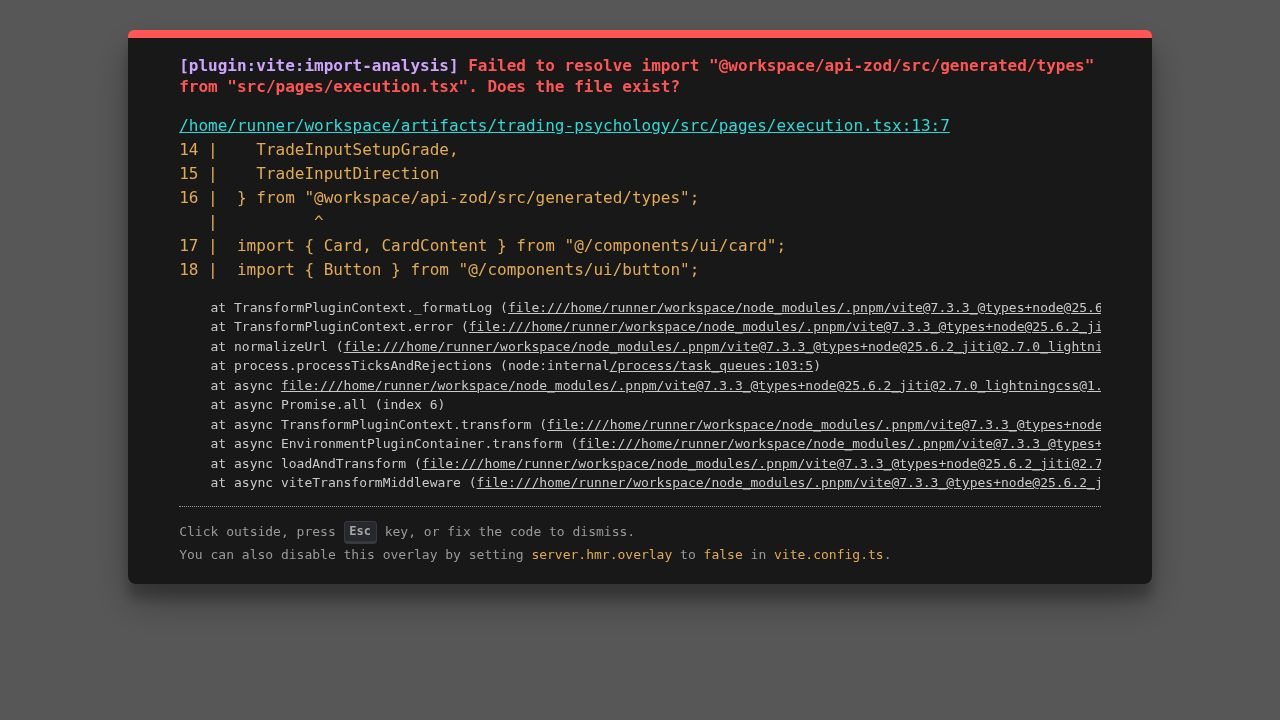
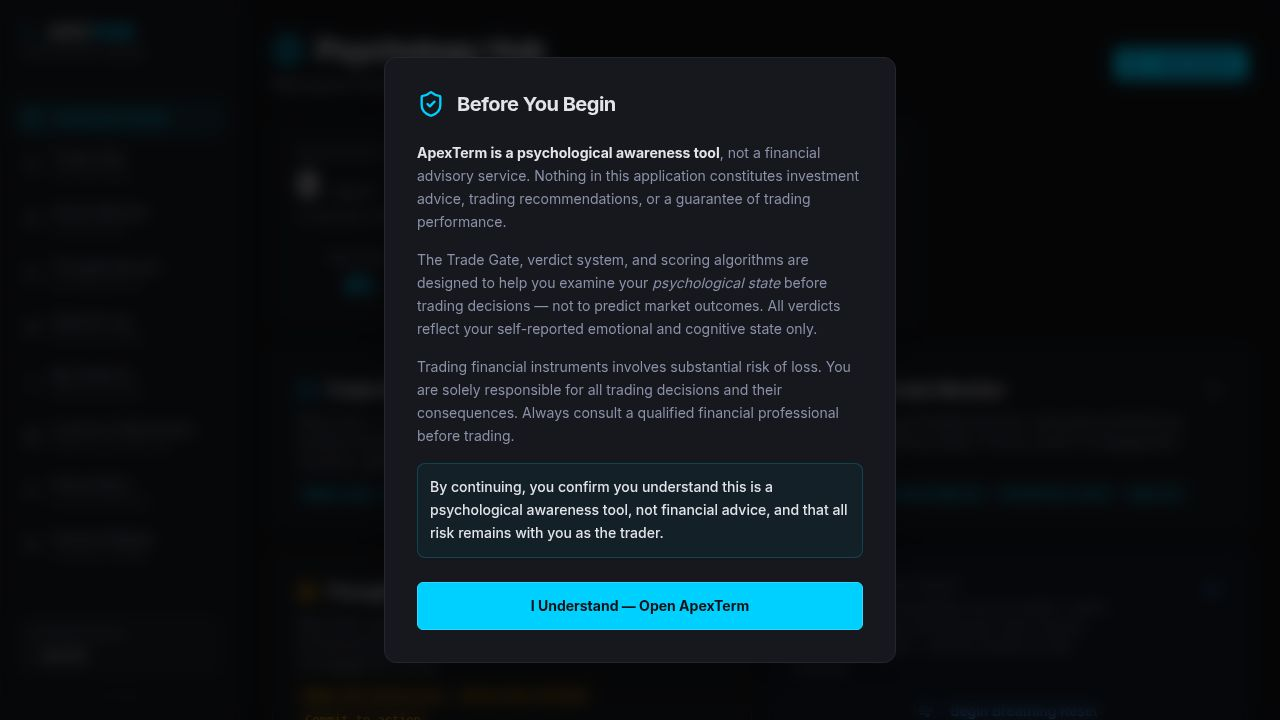
Fix Trading Psychology System artifact to run successfully
Create a nested vite.config.ts with absolute paths to resolve the CWD issue in artifact workflows.

Replit-Commit-Author: Agent
Replit-Commit-Session-Id: dadcf8ae-5f7b-4ddf-848b-962dcee2b596
Replit-Commit-Checkpoint-Type: full_checkpoint
Replit-Commit-Event-Id: 135d0a79-114b-4c7f-ba22-f3d396dec3fd
Replit-Commit-Screenshot-Url: https://storage.googleapis.com/screenshot-production-us-central1/09e3571f-7bbf-4230-93f7-7f4e97a95164/dadcf8ae-5f7b-4ddf-848b-962dcee2b596/y1lhYTU
Replit-Helium-Checkpoint-Created: true

diff --git a/artifacts/trading-psychology/artifacts/trading-psychology/vite.config.ts b/artifacts/trading-psychology/artifacts/trading-psychology/vite.config.ts
@@ -1,0 +1,49 @@
+import { defineConfig } from "vite";
+import react from "@vitejs/plugin-react";
+import tailwindcss from "@tailwindcss/vite";
+import path from "path";
+
+const REAL_ROOT = "/home/runner/workspace/artifacts/trading-psychology";
+
+const rawPort = process.env.PORT || "21714";
+const port = Number(rawPort);
+const basePath = process.env.BASE_PATH || "/";
+
+export default defineConfig({
+  base: basePath,
+  plugins: [react(), tailwindcss()],
+  resolve: {
+    alias: {
+      "@": path.resolve(REAL_ROOT, "src"),
+      "@assets": path.resolve(REAL_ROOT, "../../attached_assets"),
+      "@workspace/api-zod": path.resolve(REAL_ROOT, "../../lib/api-zod/src/index.ts"),
+      "@workspace/api-client-react": path.resolve(REAL_ROOT, "../../lib/api-client-react/src/index.ts"),
+    },
+    dedupe: ["react", "react-dom"],
+  },
+  root: REAL_ROOT,
+  build: {
+    outDir: path.resolve(REAL_ROOT, "dist/public"),
+    emptyOutDir: true,
+  },
+  server: {
+    port,
+    strictPort: true,
+    host: "0.0.0.0",
+    allowedHosts: true,
+    fs: {
+      strict: false,
+    },
+    proxy: {
+      "/api": {
+        target: "http://localhost:8080",
+        changeOrigin: true,
+      },
+    },
+  },
+  preview: {
+    port,
+    host: "0.0.0.0",
+    allowedHosts: true,
+  },
+});

diff --git a/.agents/memory/artifact-workflow-cwd.md b/.agents/memory/artifact-workflow-cwd.md
@@ -1,0 +1,16 @@
+---
+name: Artifact auto-workflow CWD quirk
+description: Replit auto-configured artifact workflows run from INSIDE the artifact's directory, not the workspace root.
+---
+
+## Rule
+
+Auto-configured artifact workflows (e.g. `artifacts/trading-psychology: web`) run their shell command from **inside** the artifact's own directory, not from `/home/runner/workspace`.
+
+**Why:** Replit's artifact system sets the CWD to the artifact's directory before running the command. This means commands like `cd artifacts/trading-psychology` fail with "No such file or directory" because the shell is already inside that directory.
+
+**How to apply:**
+- These workflows are locked — cannot be overridden via `configureWorkflow` (error: "managed by an artifact")
+- To fix a broken locked-command like `cd artifacts/trading-psychology && PORT=X npx vite --config vite.config.ts`, create a real nested directory `artifacts/[app]/artifacts/[app]/` with a `vite.config.ts` that uses absolute paths (`/home/runner/workspace/artifacts/[app]`) for `root`, aliases, and `build.outDir`.
+- The nested config causes the `cd` to succeed, then Vite is pointed back at the real source with `fs.strict: false`.
+- Do NOT use symlinks — they create circular resolution loops.

diff --git a/.agents/memory/MEMORY.md b/.agents/memory/MEMORY.md
@@ -1,2 +1,3 @@
 - [Rande Howell framework integration](rande-howell-framework.md) — archetypes/voices/alibi system, app structure, key patterns for future additions
 - [Setup Plan pre-commitment system](setup-plan-precommitment.md) — plan CRUD, gate PLAN_SELECT phase, server-side enforcement, chase detection, analytics
+- [Artifact auto-workflow CWD quirk](artifact-workflow-cwd.md) — locked artifact workflows run from inside the artifact dir; fix with a nested vite.config.ts using absolute paths